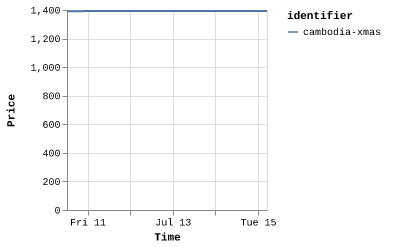
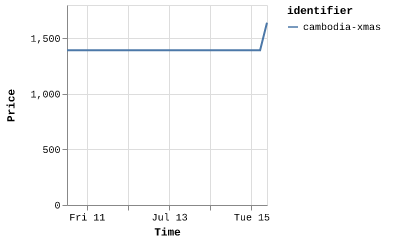
Latest scraping flights: Tue Jul 15 09:02:36 UTC 2025

diff --git a/scrapes/flights/cambodia-xmas.md b/scrapes/flights/cambodia-xmas.md
@@ -1,1 +1,1 @@
-€1,393
+€1,641
